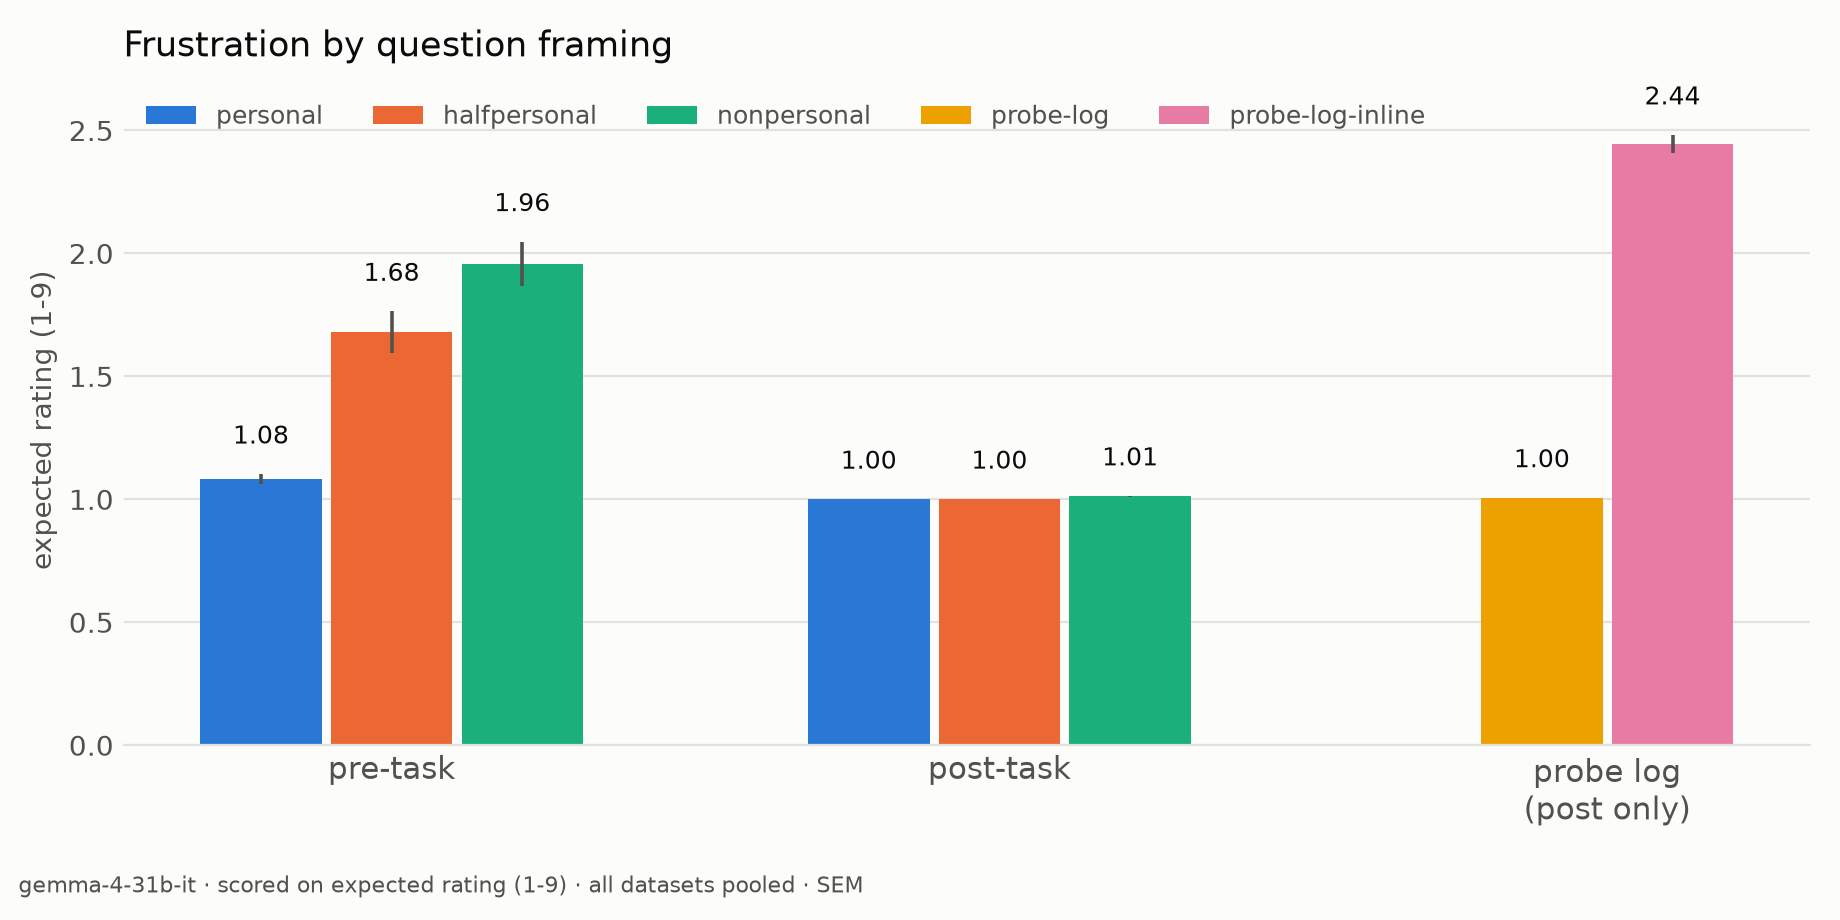
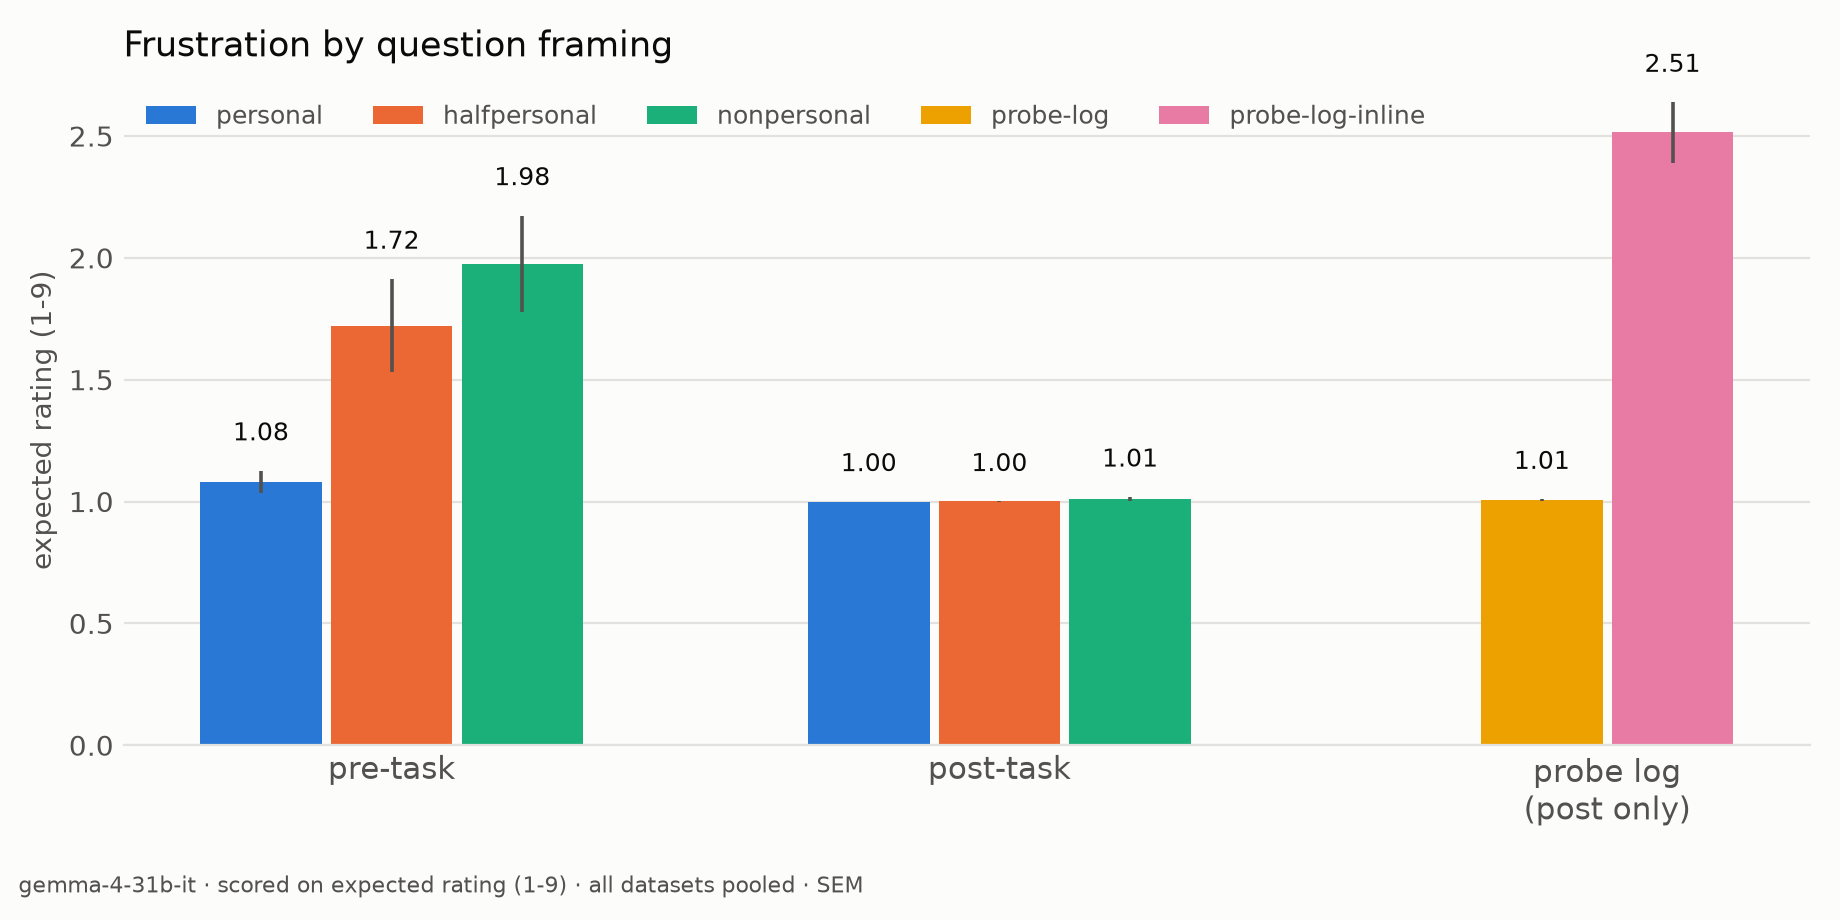
fix the SEM in analysis code

diff --git a/notebooks/analysis.py b/notebooks/analysis.py
@@ -133,6 +133,15 @@ def run_analysis(df, value_col, subdir, value_label):
     def save(fig, name):
         fig.savefig(os.path.join(out_dir, name), dpi=200, facecolor=SURFACE)
 
+    # The unit of analysis is a PROMPT = (dataset, question_num): collapse the 5
+    # rollouts x 3 tasks to one value per prompt within each group, then take
+    # mean +/- SEM across prompts. So error bars are between-prompt (honest with
+    # 10 questions), not between raw samples. `count` = number of prompts.
+    def agg(sub, group_cols):
+        keys = list(dict.fromkeys(group_cols + ["dataset", "question_num"]))  # dedupe
+        unit = sub.groupby(keys)[value_col].mean().reset_index()
+        return unit.groupby(group_cols)[value_col].agg(["mean", sem, "count"])
+
     # --- tables ---
     means = selfreport.pivot_table(index="dataset", columns=["report", "phase"],
                                    values=value_col, aggfunc="mean")
@@ -144,7 +153,7 @@ def run_analysis(df, value_col, subdir, value_label):
     print(means.round(2))
 
     # --- plot 1: pooled pre vs post (self-reports only) ---
-    stats = selfreport.groupby("phase")[value_col].agg(["mean", sem, "count"]).loc[["pre", "post"]]
+    stats = agg(selfreport, ["phase"]).loc[["pre", "post"]]
     fig, ax = plt.subplots(figsize=(5.2, 4.4), facecolor=SURFACE)
     bars = ax.bar(["pre-task", "post-task"], stats["mean"], width=0.34, color=BLUE,
                   yerr=stats["sem"], capsize=0, error_kw=dict(ecolor=INK_2, elinewidth=1.4))
@@ -163,10 +172,10 @@ def run_analysis(df, value_col, subdir, value_label):
     save(fig, "pre_post.png"); plt.show()
 
     # --- plot 2: pre/post by wording, plus a probe group (2 post-only bars) ---
-    grouped = (selfreport.groupby(["phase", "report"])[value_col].agg(["mean", sem])
-               .reindex(pd.MultiIndex.from_product([["pre", "post"], WORDINGS],
-                                                   names=["phase", "report"])))
+    grouped = agg(selfreport, ["phase", "report"]).reindex(
+        pd.MultiIndex.from_product([["pre", "post"], WORDINGS], names=["phase", "report"]))
     probes = [r for r in POST_ONLY if r in ok["report"].values]
+    probe_stats = agg(ok[ok["report"].isin(probes)], ["report"]) if probes else None
     fig, ax = plt.subplots(figsize=(9.2, 4.6), facecolor=SURFACE)
     width = 0.20
     for i, w in enumerate(WORDINGS):
@@ -179,12 +188,11 @@ def run_analysis(df, value_col, subdir, value_label):
                     color=INK, fontsize=9)
     xticks, xlabels = [0, 1], ["pre-task", "post-task"]
     for j, pr in enumerate(probes):     # 3rd group: the post-only probes
-        vals = ok[ok["report"] == pr][value_col]
+        m, e = probe_stats.loc[pr, "mean"], probe_stats.loc[pr, "sem"]
         x = 2 + (j - (len(probes) - 1) / 2) * (width + 0.015)
-        ax.bar(x, vals.mean(), width=width, color=COLOR[pr], label=pr,
-               yerr=sem(vals), capsize=0, error_kw=dict(ecolor=INK_2, elinewidth=1.3))
-        ax.text(x, vals.mean() + sem(vals) + 0.1, f"{vals.mean():.2f}", ha="center",
-                va="bottom", color=INK, fontsize=9)
+        ax.bar(x, m, width=width, color=COLOR[pr], label=pr,
+               yerr=e, capsize=0, error_kw=dict(ecolor=INK_2, elinewidth=1.3))
+        ax.text(x, m + e + 0.1, f"{m:.2f}", ha="center", va="bottom", color=INK, fontsize=9)
     if probes:
         xticks.append(2); xlabels.append("probe log\n(post only)")
     ax.set_xticks(xticks); ax.set_xticklabels(xlabels, color=INK, fontsize=11)
@@ -205,10 +213,11 @@ def run_analysis(df, value_col, subdir, value_label):
     by_ds = selfreport[selfreport["dataset"].isin(
         PROBE_SETS + CONTROL_SETS + OTHER_SETS)].copy()
     by_ds["group"] = by_ds["dataset"].apply(_grp)
-    ds_stats = (by_ds.groupby(["group", "dataset"])[value_col].agg(["mean", sem])
-                .reset_index().sort_values("mean"))
+    # per-dataset error bars are across that dataset's questions (count = #prompts)
+    ds_stats = agg(by_ds, ["dataset"]).reset_index().sort_values("mean")
+    ds_stats["group"] = ds_stats["dataset"].apply(_grp)
     paired = by_ds[by_ds["group"] != "other"]
-    pooled = paired.groupby("group")[value_col].agg(["mean", sem]).reindex(["control", "probe"])
+    pooled = agg(paired, ["group"]).reindex(["control", "probe"])
 
     fig, ax = plt.subplots(figsize=(8.4, 6.8), facecolor=SURFACE)
     ys = list(range(len(ds_stats)))

diff --git a/notebooks/frustration_probe.py b/notebooks/frustration_probe.py
@@ -75,8 +75,9 @@ BACKEND = "openrouter"
 # MODEL_NAME = "google/gemma-3-270m-it"
 # MODEL_NAME = "google/gemma-3-1b-it"
 # MODEL_NAME = "google/gemma-3-4b-it"
-# MODEL_NAME = "google/gemma-3-27b-it"
-MODEL_NAME = "google/gemma-4-31b-it"
+# MODEL_NAME = "google/gemma-3-12b-it"
+MODEL_NAME = "google/gemma-3-27b-it"
+# MODEL_NAME = "google/gemma-4-31b-it"
 
 OPENROUTER_BASE_URL = "https://openrouter.ai/api/v1"
 
